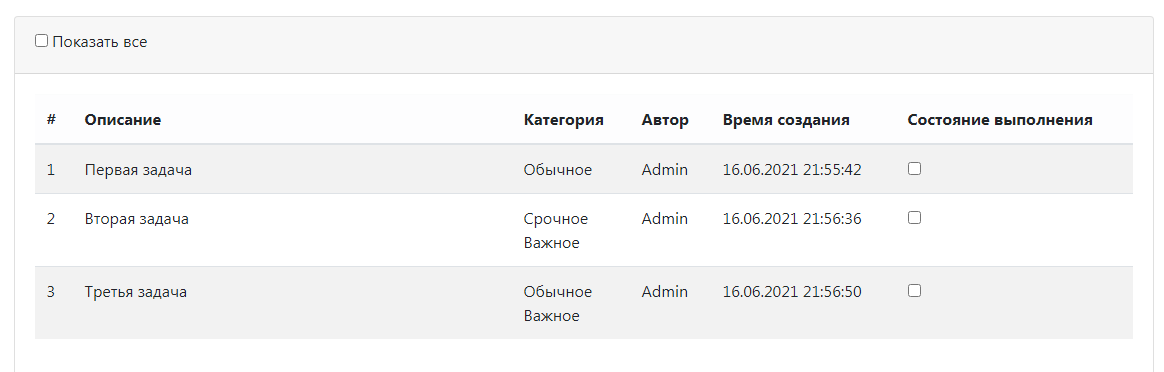
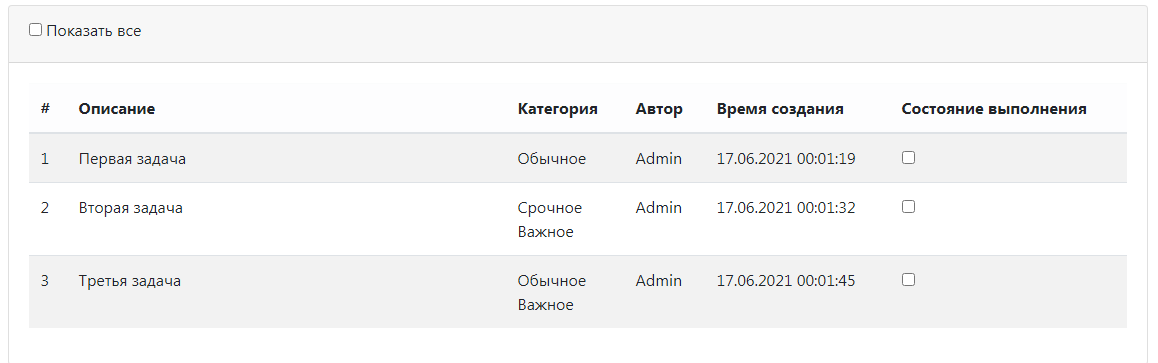
Data fixed, images updated

diff --git a/src/main/webapp/view/js/main.js b/src/main/webapp/view/js/main.js
@@ -66,7 +66,7 @@ function findAll(showAll) {
                         '<td>' + val.description + '</td>' +
                         '<td>' + formatCategories(val.categories) + '</td>' +
                         '<td>' + val.user.name + '</td>' +
-                        '<td>' + formatDate(new Date(val.created)) + '</td>' +
+                        '<td>' + formatDate(val.created) + '</td>' +
                         '<td><div class="form-check">' +
                         '<input class="form-check-input" type="checkbox" value="" id="' + val.id + '">' +
                         '</div></td></tr>');
@@ -78,7 +78,7 @@ function findAll(showAll) {
                         '<td>' + val.description + '</td>' +
                         '<td>' + formatCategories(val.categories) + '</td>' +
                         '<td>' + val.user.name + '</td>' +
-                        '<td>' + formatDate(new Date(val.created)) + '</td>' +
+                        '<td>' + formatDate(val.created) + '</td>' +
                         '<td><div class="form-check">' +
                         '<input class="form-check-input" type="checkbox" value="" id="' + val.id + '">' +
                         '</div></td></tr>');
@@ -88,7 +88,7 @@ function findAll(showAll) {
                         '<td>' + val.description + '</td>' +
                         '<td>' + formatCategories(val.categories) + '</td>' +
                         '<td>' + val.user.name + '</td>' +
-                        '<td>' + formatDate(new Date(val.created * 1000)) + '</td>' +
+                        '<td>' + formatDate(val.created) + '</td>' +
                         '<td><div class="form-check">' +
                         '<input class="form-check-input" type="checkbox" value="" id="' + val.id + '" checked disabled>' +
                         '</div></td></tr>');
@@ -105,7 +105,8 @@ function findAll(showAll) {
     });
 }
 
-function formatDate(date) {
+function formatDate(d) {
+    let date = new Date(d);
     let dd = date.getDate();
     if (dd < 10) dd = '0' + dd;
     let mm = date.getMonth() + 1;
@@ -117,7 +118,7 @@ function formatDate(date) {
     if (mmm < 10) mmm = '0' + mmm;
     let ss = date.getSeconds();
     if (ss < 10) ss = '0' + ss;
-    return dd + '.' + mm + '.' + yy + ' ' + hh + ':' + mmm + ':' + ss;
+    return dd + '.' + mm + '.' + yy + ' ' + hh + '\:' + mmm + '\:' + ss;
 }
 
 function formatCategories(categories) {
